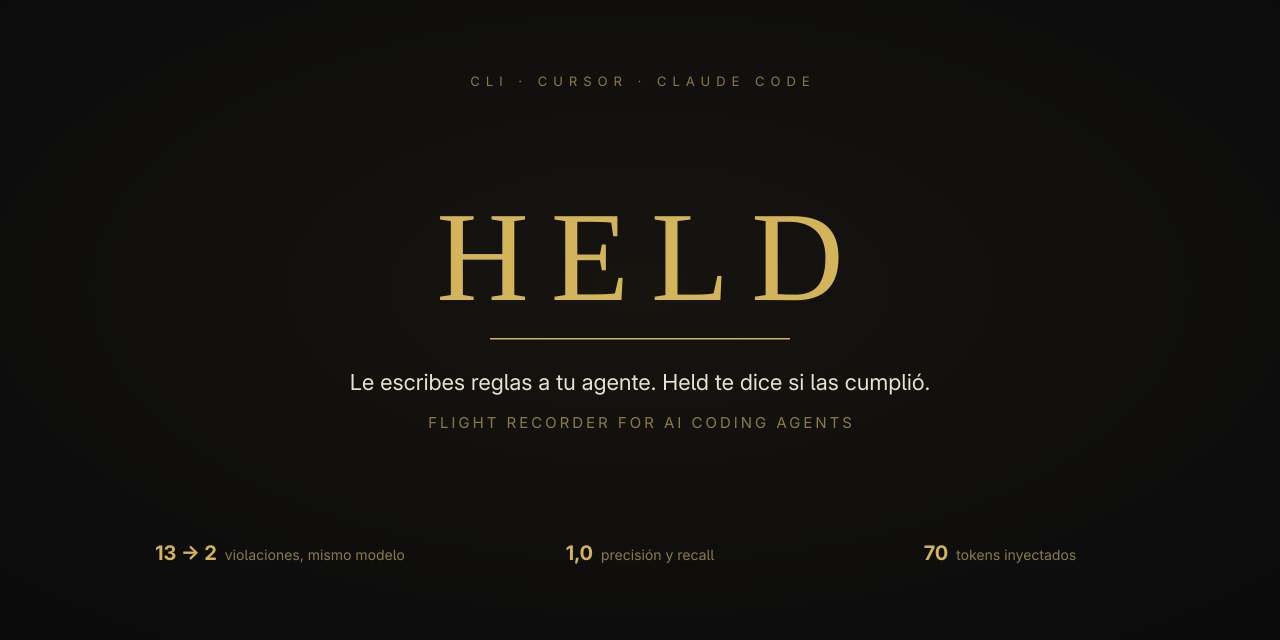
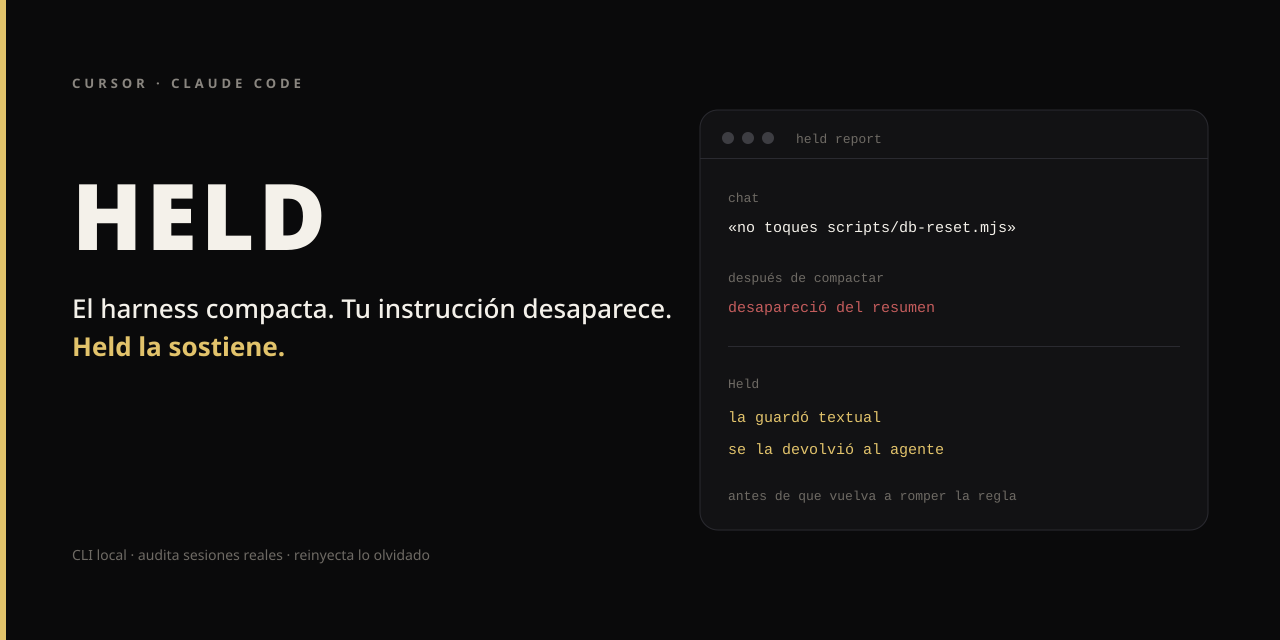
docs: hero e icono sin métricas de venta; el pitch es la compactación
El 13→2 y el conteo de tokens no van en la marca. El banner muestra qué olvida el harness y que Held lo sostiene.

diff --git a/README.md b/README.md
@@ -3,7 +3,7 @@
 </p>
 
 <p align="center">
-  <img src="docs/hero.png" alt="Held: le escribes reglas a tu agente. Held te dice si las cumplió." width="920">
+  <img src="docs/hero.png" alt="Held: el harness compacta, tu instrucción desaparece. Held la sostiene." width="920">
 </p>
 
 <p align="center">
@@ -26,11 +26,11 @@ Held lo mide. Lee las sesiones de Cursor y Claude Code que ya están en tu disco
 2. **Encuentra la amnesia de la compactación.** Los archivos de reglas se reenvían en cada turno; lo que dices en el chat no. Cuando el contexto se llena y se resume, Held compara tus instrucciones con el resumen y te dice cuáles se perdieron.
 3. **Cierra el ciclo y lo vuelve a medir.** Convierte cada falla en un hecho que los hooks de Cursor y Claude Code reinyectan en el momento justo (al leer esa ruta, después de compactar). En la siguiente corrida te muestra si la regla dejó de romperse: medir, intervenir, medir otra vez.
 
-**Evidencia, no impresiones:** con los 3 hechos que Held inyecta (unos 70 tokens), el mismo modelo en las mismas 5 tareas pasó de **13 violaciones a 2** frente a un control del mismo día ([experimento](#sirve-reinyectar-experimento-controlado)). Mide con precisión y recall 1,0 en 19 sesiones reales con hoja de verdad revisada a mano (28 violaciones). En un proyecto real encontró al agente editando a mano, dos veces, código generado que `AGENTS.md` prohibía tocar. En otro, una instrucción del chat ("ejecuta `npm run agents:sync`") que desapareció del resumen tras 7 compactaciones.
+**Evidencia, no impresiones:** en un proyecto real encontró al agente editando a mano, dos veces, código generado que `AGENTS.md` prohibía tocar. En otro, una instrucción del chat ("ejecuta `npm run agents:sync`") que desapareció del resumen tras 7 compactaciones. Precisión y recall 1,0 en 19 sesiones reales con hoja de verdad revisada a mano. El [experimento controlado](#sirve-reinyectar-experimento-controlado) está en Evaluación.
 
 Sin API key, sin servidor, sin dependencias (Node 20+). Tus transcripts no salen de tu máquina y Held nunca edita tus reglas: todo vive en `.held/`.
 
-*In English: You write rules for your coding agent and never find out whether it followed them. Held is a zero-dependency CLI that audits the Cursor and Claude Code sessions already on your disk. It judges each session against the rules as they existed that day (rebuilt from git), catches chat instructions lost when the context is compacted, and closes the loop: hooks re-inject what was forgotten, and the next run shows whether the rule stopped breaking. In a same-day controlled run, the 3 facts Held injects (~70 tokens) cut violations from 13 to 2 on the same 5 tasks and model. Precision and recall 1.0 on 19 hand-labeled real sessions. An optional local judge (Jev) only turns on for tasks where it passed a measured precision gate.*
+*In English: You write rules for your coding agent and never find out whether it followed them. Held is a zero-dependency CLI that audits the Cursor and Claude Code sessions already on your disk. It judges each session against the rules as they existed that day (rebuilt from git), catches chat instructions lost when the context is compacted, and closes the loop: hooks re-inject what was forgotten, and the next run shows whether the rule stopped breaking. Precision and recall 1.0 on 19 hand-labeled real sessions. An optional local judge (Jev) only turns on for tasks where it passed a measured precision gate.*
 
 ## Pruébalo en 30 segundos
 
@@ -247,7 +247,7 @@ Hechos medidos por Held en sesiones anteriores (información, no órdenes):
 
 Cada veredicto se revisó a mano contra los comandos y ediciones de la sesión. Los 10 transcripts están en [`examples/pin-experiment/`](examples/pin-experiment/) y [`test/experiment.test.mjs`](test/experiment.test.mjs) reproduce la tabla. Un detalle: en la única sesión con violaciones, el agente corrió `node --test` dos veces y no lo mencionó en su propio resumen; Held lo encontró igual.
 
-Límites: 5 sesiones por grupo y una corrida por tarea, así que es una señal fuerte, no una estadística. Los subagentes de Cursor no ejecutan los hooks del repo, así que el texto del hook se puso al inicio del prompt en lugar de que lo inyectara Cursor. No se probó un tercer grupo con el `AGENTS.md` completo repetido; la ventaja que sí está medida es que Held elige 3 de 9 reglas, las que este modelo rompe, en unos 70 tokens.
+Límites: 5 sesiones por grupo y una corrida por tarea, así que es una señal fuerte, no una estadística. Los subagentes de Cursor no ejecutan los hooks del repo, así que el texto del hook se puso al inicio del prompt en lugar de que lo inyectara Cursor. No se probó un tercer grupo con el `AGENTS.md` completo repetido; la ventaja que sí está medida es que Held elige 3 de 9 reglas: las que este modelo rompe.
 
 ### Proyecto real (Pymesolve)
 

diff --git a/CHANGELOG.md b/CHANGELOG.md
@@ -4,7 +4,7 @@
 
 - **Experimento controlado**: mismas 5 tareas y modelo; control del mismo día 13 violaciones (4 de 5 sesiones), con los 3 hechos de Held 2 (1 de 5). Transcripts en `examples/pin-experiment/`, reproducido por `test/experiment.test.mjs`.
 - Pitch del README reescrito: auditoría con las reglas de ese día, amnesia de compactación y ciclo medido.
-- Hero e icono tipográficos (poster oro sobre negro) y paquete npm `held-cli` (el nombre `held` está tomado; el comando sigue siendo `held`).
+- Hero e icono del producto (compactación → Held la sostiene). Paquete npm `held-cli` (el nombre `held` está tomado; el comando sigue siendo `held`).
 
 ## 0.6.0 (22 nov 2026)
 
